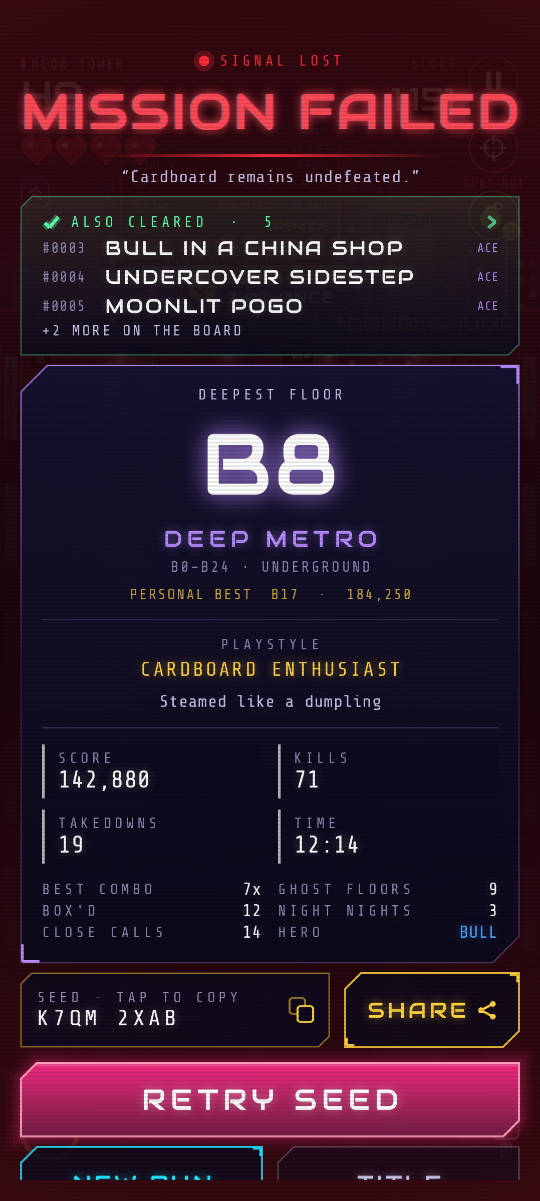
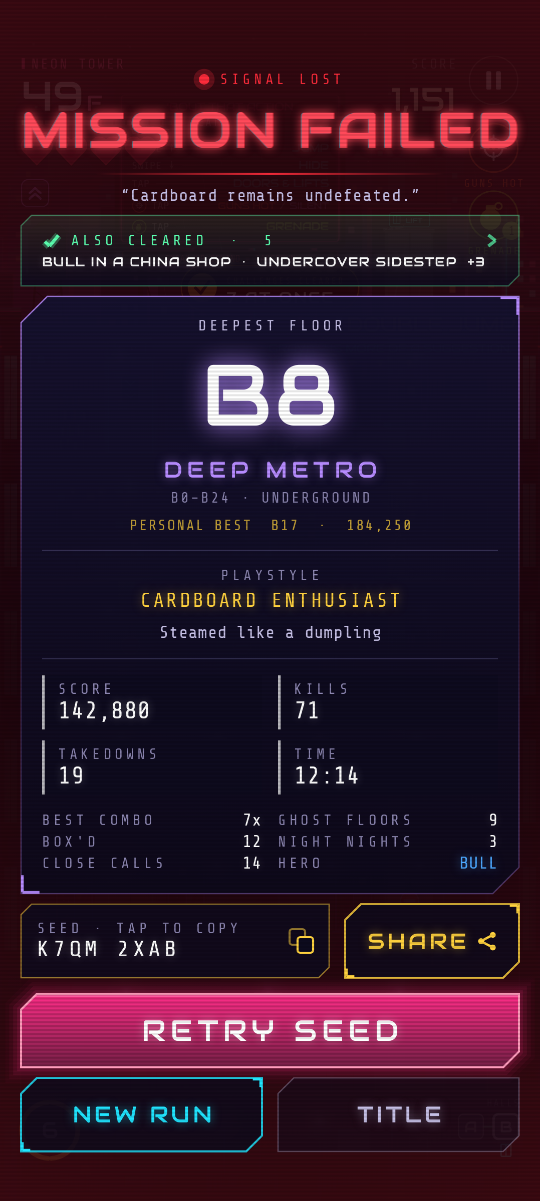
Game over: ALSO CLEARED on one line, so the run's buttons stay on screen
Claude-Session: https://claude.ai/code/session_01NNpv1n2Bc7gspRyQzSwR2F

diff --git a/app/src/main/java/com/bradflaugher/aboutthataction/ui/ChallengeCards.kt b/app/src/main/java/com/bradflaugher/aboutthataction/ui/ChallengeCards.kt
@@ -469,20 +469,11 @@ fun AlsoClearedCard(items: List<SideClear>, modifier: Modifier = Modifier, onCli
             Kicker(if (items.size == 1) "ALSO CLEARED" else "ALSO CLEARED  ·  ${items.size}", c, Modifier.weight(1f))
             Box(Modifier.size(9.dp, 14.dp).drawBehind { chevronRight(c.copy(alpha = 0.7f)) })
         }
-        for (it in shown) {
-            Row(verticalAlignment = Alignment.CenterVertically) {
-                FitText(idLabel(it.id), Type.micro, Neon.dim, Modifier.width(48.dp), title = false, letterSpacing = 1.sp, glow = 0f,
-                    alignment = Alignment.CenterStart)
-                FitText(it.name, Type.body, Color.White, Modifier.weight(1f), letterSpacing = 1.5.sp, glow = 0.2f,
-                    alignment = Alignment.CenterStart)
-                FitText(it.tier.title, 9.sp, tierColor(it.tier), Modifier.width(52.dp), title = false, letterSpacing = 1.sp, glow = 0f,
-                    alignment = Alignment.CenterEnd)
-            }
-        }
-        if (more > 0) {
-            NeonText("+$more MORE ON THE BOARD", size = Type.micro, color = Neon.soft, letterSpacing = 2.sp, glow = 0f)
-        }
+        // One line, so the run's own buttons stay on screen: the first few names, then a count.
+        val line = shown.joinToString("  ·  ") { it.name } + if (more > 0) "  +$more" else ""
+        FitText(line, Type.body, Color.White, Modifier.fillMaxWidth(), letterSpacing = 1.5.sp, glow = 0.2f,
+            alignment = Alignment.CenterStart)
     }
 }
 
-private const val ALSO_SHOWN = 3
+private const val ALSO_SHOWN = 2
